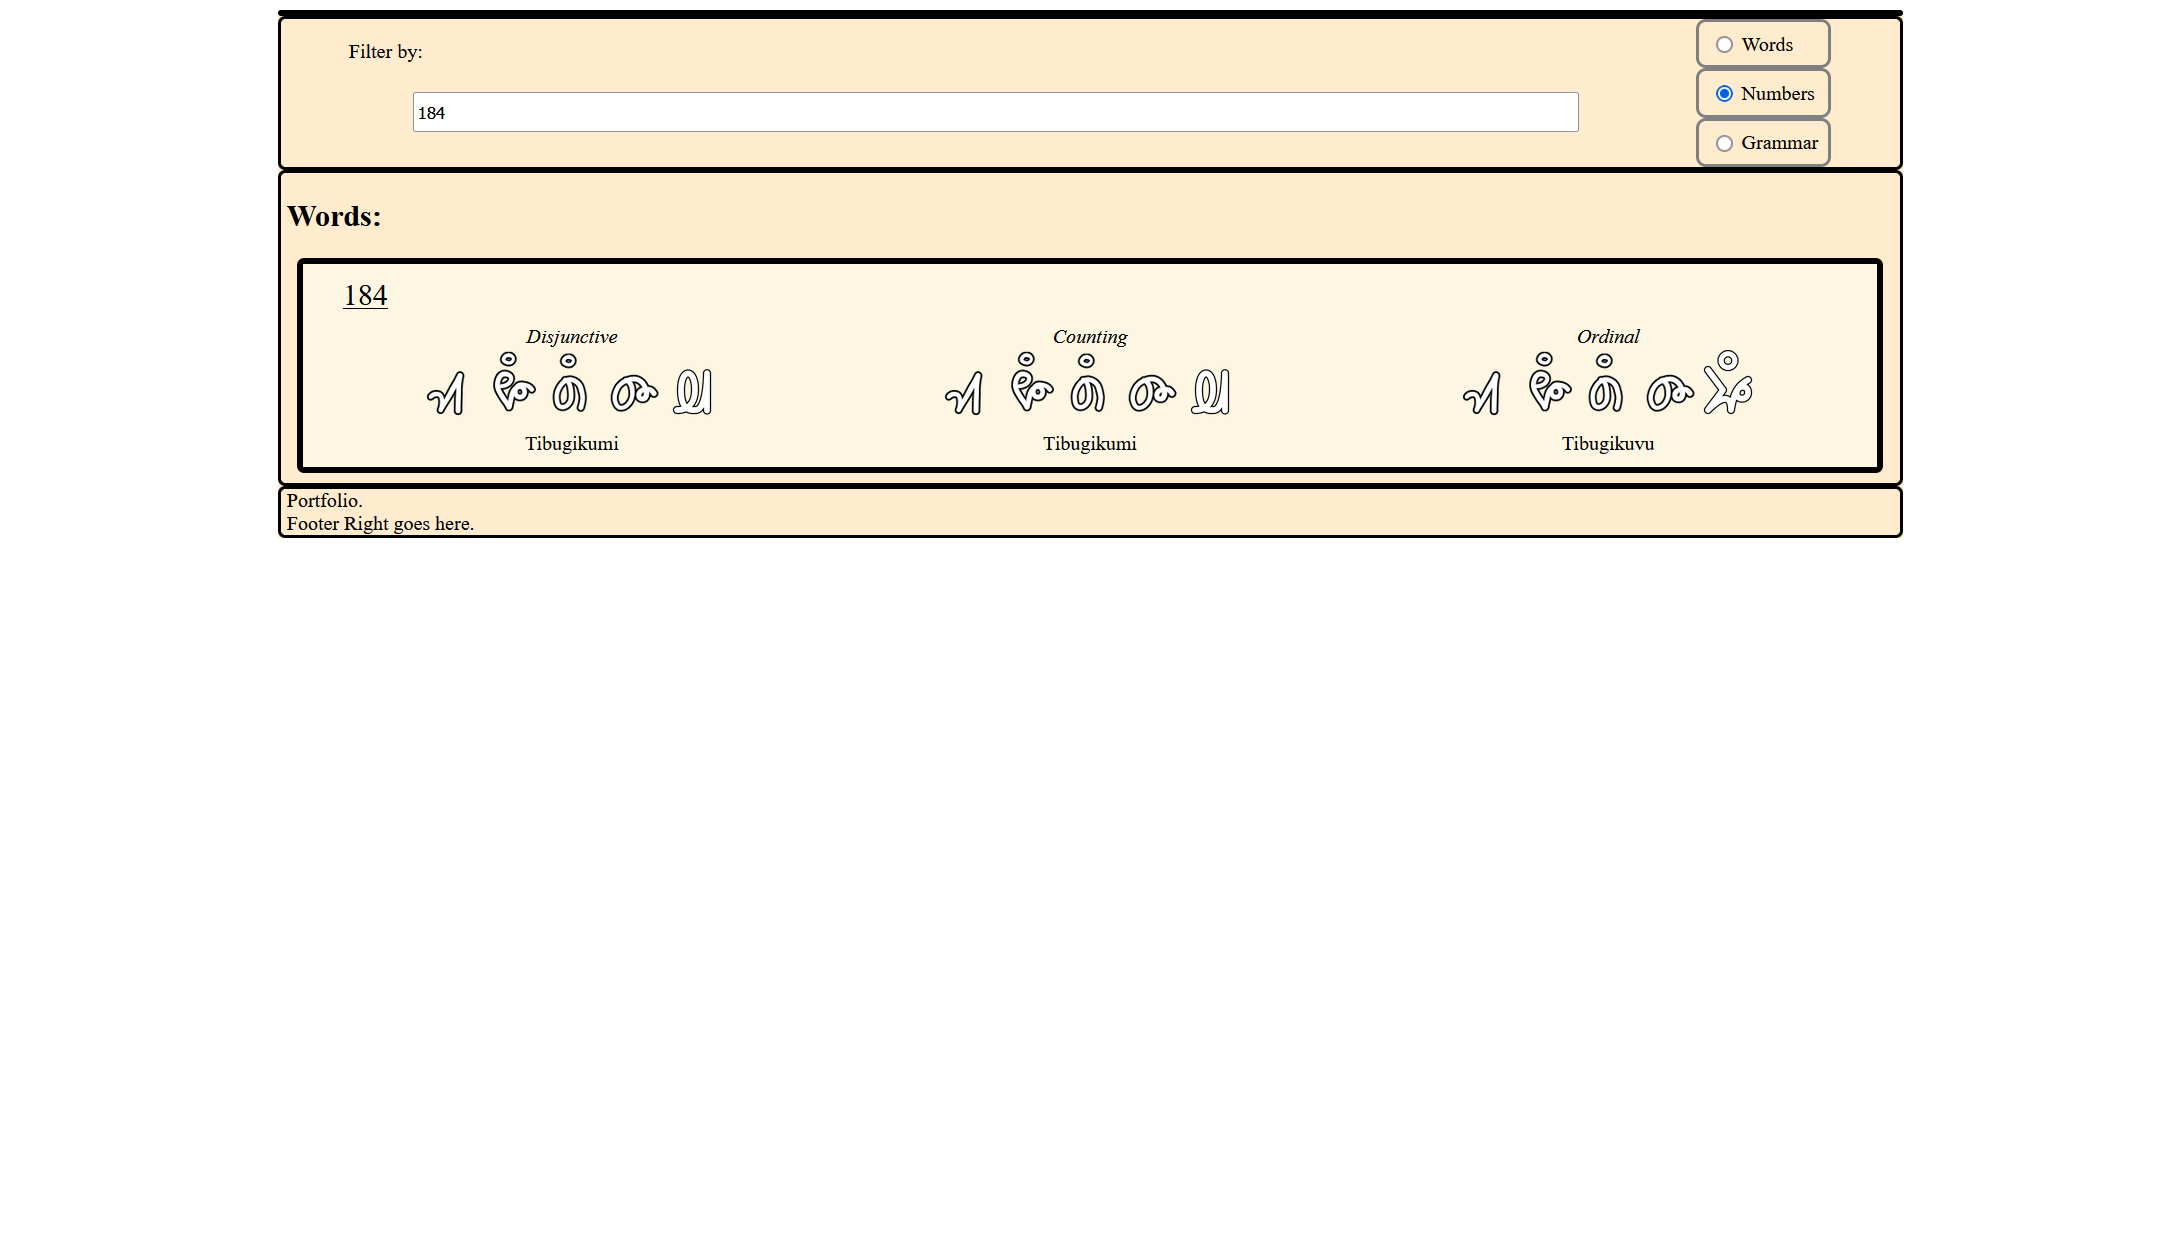
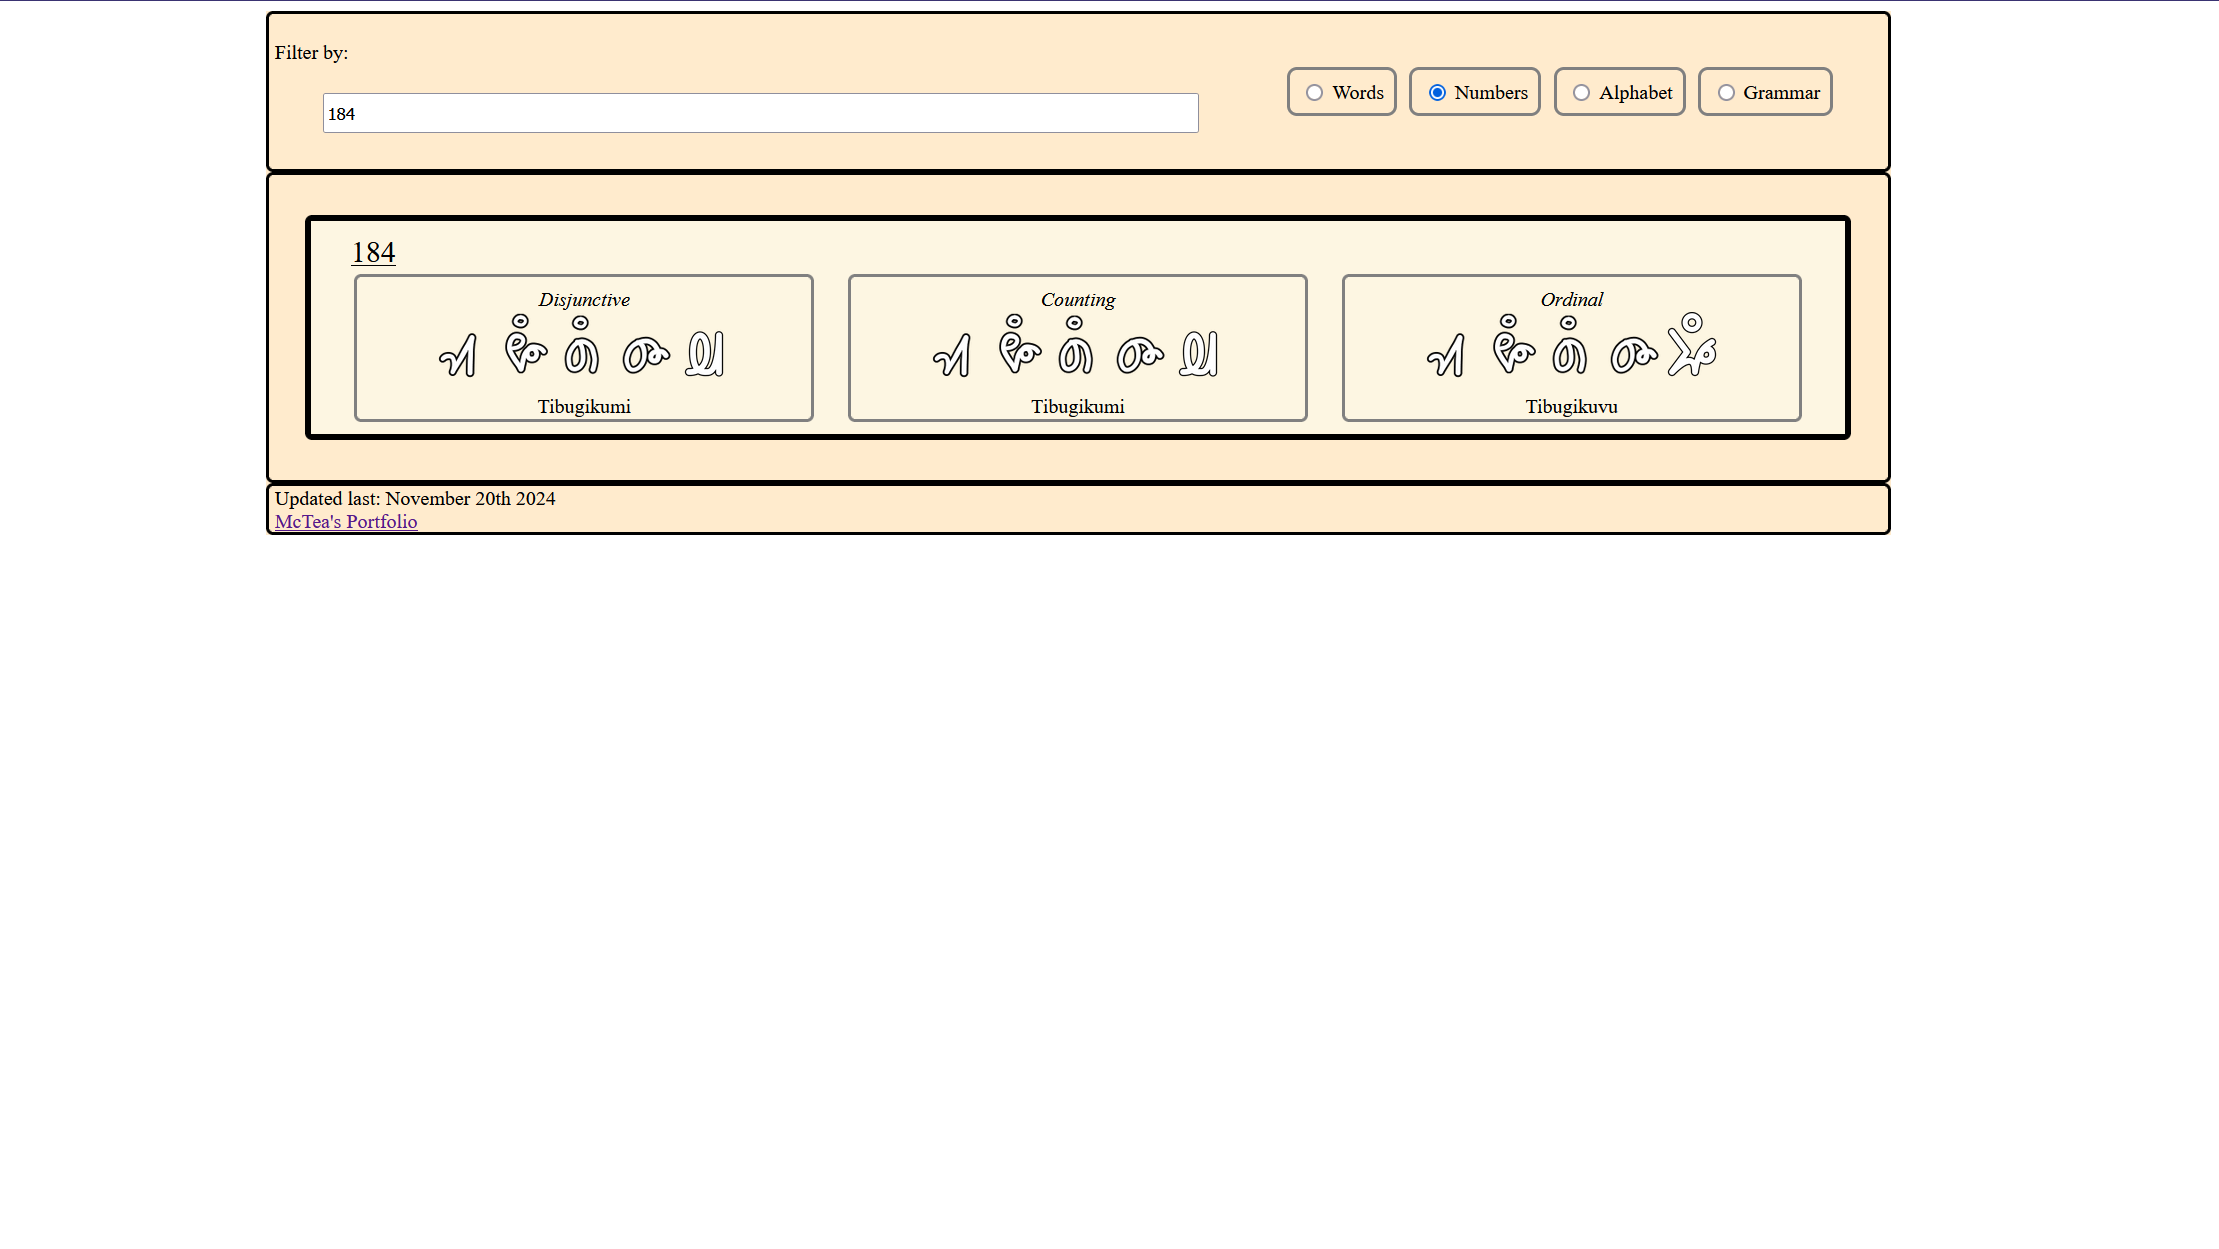
Updated the description and images of the Lookup Tool card.

Changed region(s): [[0.0928, 0.0, 0.8966, 0.4571]]

diff --git a/scripts/misc.js b/scripts/misc.js
@@ -244,7 +244,7 @@ const miscData = [
 
         sortPriority: 7,
         info: {
-            description: "This site was created by me to practice using HTML, CSS, and JavaScript together in one project. In order to do so, I am using a conlang I created back in May 2021 (and am still working on), and created a lookup dictionary for all of the words and vocabulary I have come up with so far. People using the site can enter search terms in the search bar, and it will filter out only the cards which contain that string in them, sorted in alphabetical order (in the Liang alphabet).<br><br>Additionally, there is a page for searching for numbers, where I programmed an algorithm to procedurally generate any numbers that are entered into the search bar into their three possible forms: disjunctive, counting, and ordinal. An interesting thing to note about the numbers is that the rightmost digit is listed in full, but all of the other digits are written as prefixes only, and so the system had to account for that, as well as account for places where the place value suffixes needed to go, even when the digit at that place value is zero.",
+            description: "This site was created by me to practice using HTML, CSS, and JavaScript together in one project. In order to do so, I am using a conlang I created back in May 2021 (and am still working on), and created a lookup dictionary for all of the words and vocabulary I have come up with so far. People using the site can enter search terms in the search bar, and it will filter out only the cards which contain that string in them, sorted in alphabetical order (in the Liang alphabet).<br><br>Additionally, there is a page for searching for numbers, where I programmed an algorithm to procedurally generate any numbers that are entered into the search bar into their three possible forms: disjunctive, counting, and ordinal. An interesting thing to note about the numbers is that the rightmost digit is listed in full, but all of the other digits are written as prefixes only, and so the system had to account for that, as well as account for places where the place value suffixes needed to go, even when the digit at that place value is zero.<br><br>There is also a page which lists the Liang alphabet, and if you enter text into the search bar on that page it will render it using the characters of the Liang language in real-time. To complement this system, I added support for URL Search Params in order to be able to share search results, or text rendered in the Alphabet page.",
             contributions: "",
             images: [
                 {
@@ -254,6 +254,10 @@ const miscData = [
                 {
                     caption: "A screenshot of the number search page",
                     url: "liang-lookup/numbers.png"
+                },  
+                {
+                    caption: "A screenshot of the alphabet search page",
+                    url: "liang-lookup/alphabet.png"
                 },
                 {
                     caption: "Searching for the word [Word]",
@@ -262,6 +266,10 @@ const miscData = [
                 {
                     caption: "Searching for the number [184]",
                     url: "liang-lookup/number-search.png"
+                },   
+                {
+                    caption: "Searching for the text [I am an apple]",
+                    url: "liang-lookup/alphabet-search.png"
                 }
             ],
             links: [

diff --git a/index.html b/index.html
@@ -76,7 +76,7 @@
 
                 </div>
                 <div class="right">
-                    Last updated: 15th of November, 2024
+                    Last updated: 26th of November, 2024
                 </div>
                 </footer>
         </div>
